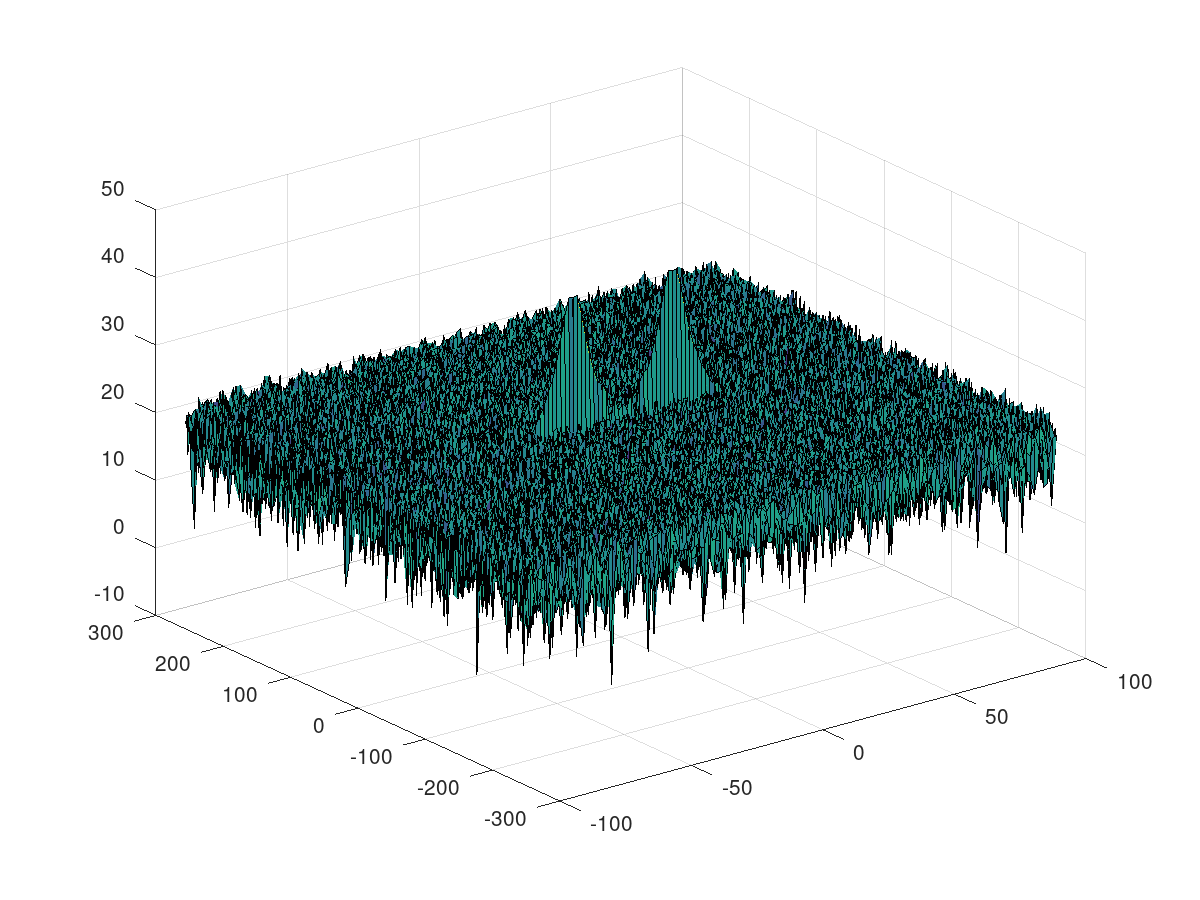
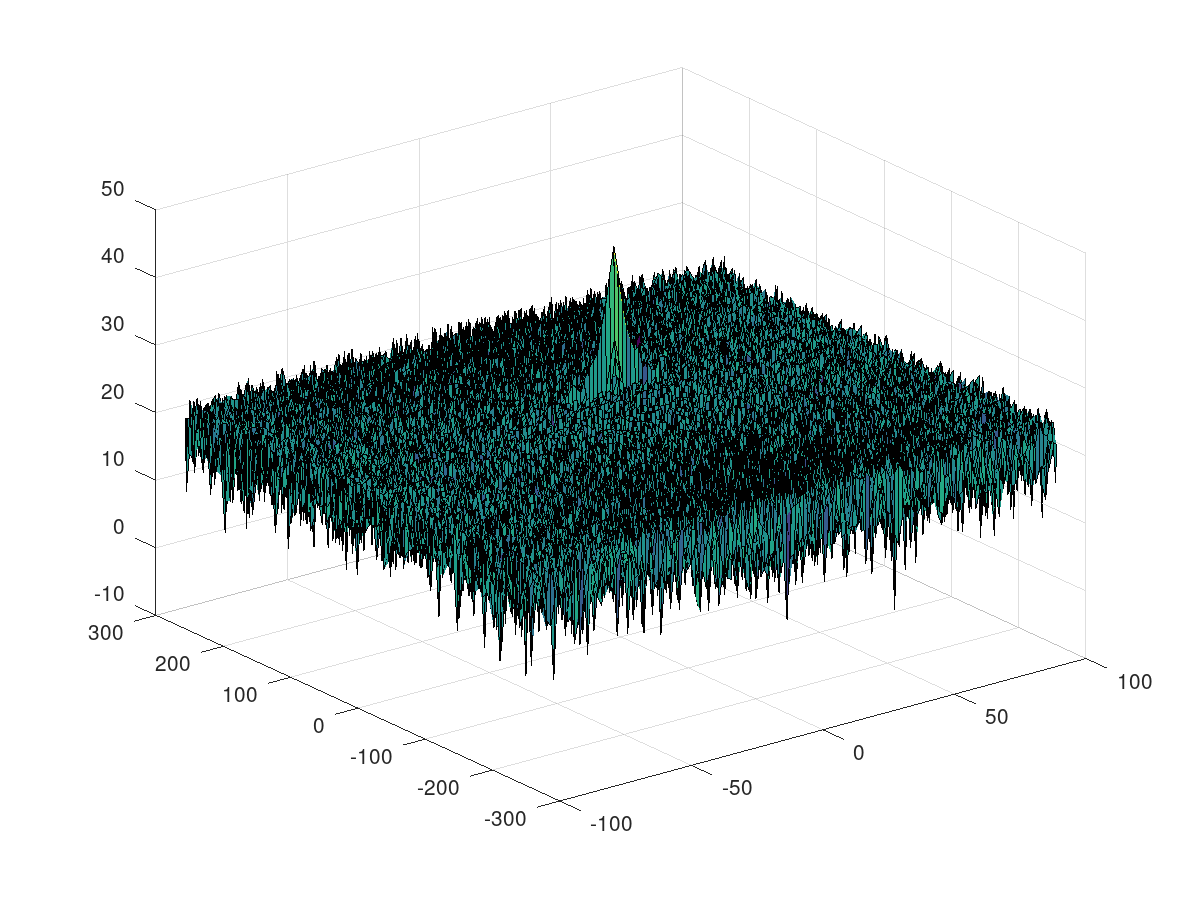
commit-2

Changed region(s): [[0.1542, 0.28, 0.8942, 0.7467]]

diff --git a/radar-target-generation-and-detection.m b/radar-target-generation-and-detection.m
@@ -15,8 +15,8 @@ clc;
 % define the target's initial position and velocity. Note : Velocity
 % remains contant
 c = 3e8; %Speed of light
-v = 20; %Velocity
-si = 0; %Initial Range
+v = 10; %Velocity
+si = 50; %Initial Range
 RR = 1; %Range Resolution 
 Rm = 200; % Max Range
 
@@ -144,7 +144,7 @@ RDM = 10*log10(RDM) ;
 %dimensions
 doppler_axis = linspace(-100,100,Nd);
 range_axis = linspace(-200,200,Nr/2)*((Nr/2)/400);
-figure,surf(doppler_axis,range_axis,RDM);
+figure('Name', 'Range Doppler'),surf(doppler_axis,range_axis,RDM);
 
 %% CFAR implementation
 
@@ -152,12 +152,12 @@ figure,surf(doppler_axis,range_axis,RDM);
 
 % *%TODO* :
 %Select the number of Training Cells in both the dimensions.
-Tcr = 10;
-Tcd = 4;
+Tcr = 5;
+Tcd = 2;
 % *%TODO* :
 %Select the number of Guard Cells in both dimensions around the Cell under 
 %test (CUT) for accurate estimation
-Gcr = 5;
+Gcr = 3;
 Gcd = 2;
 % *%TODO* :
 % offset the threshold by SNR value in dB

diff --git a/README.md b/README.md
@@ -83,7 +83,7 @@ figure('Name', 'Range from First FFT'),surf(doppler_axis,range_axis,RDM);
 <img width="480" src="/home/benzi/radar_detect/fig_2.png">
 
 #### 5. 2D CFAR
-Setting the training and guard cell of the grid.
+Setting the training and guard cell of the grid. 
 
 ```Matlab
 Tcr = 10;
@@ -123,7 +123,7 @@ for j=1:Nd-2*(Tcr+Gcr)
   end
 end
 
-Finally we show the result.
+Finally we show the result. The values of training cell and guard cells were at the beginning 5 and 2 for Tcr and Tcd, 5 and 2 for Gcr and Gcd, respectively. We choose randomly at first but changing some of the values on training cells was enough to get a homogenous CFAR sign.  
 ```Matlab
 figure('Name', 'CA-CFAR'),surf(doppler_axis,range_axis, CFAR_sig);
 colorbar;
